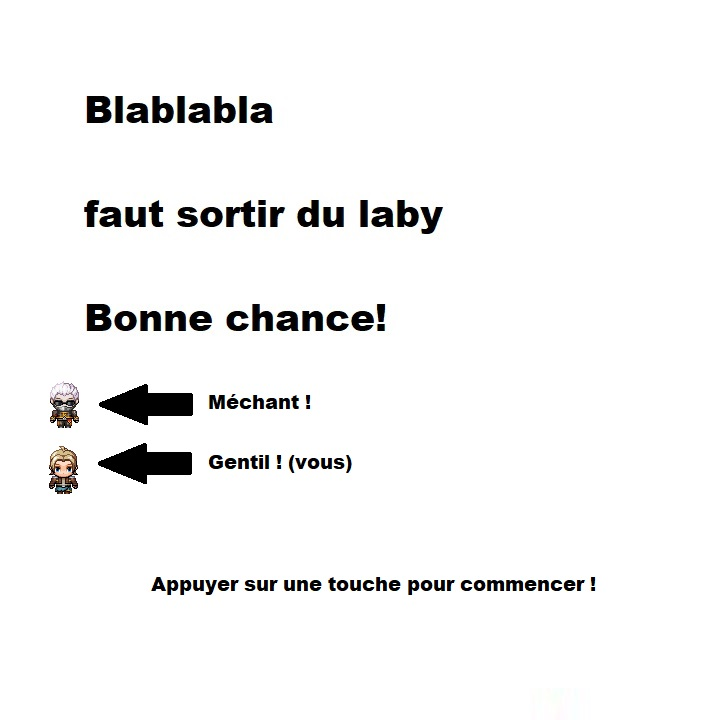
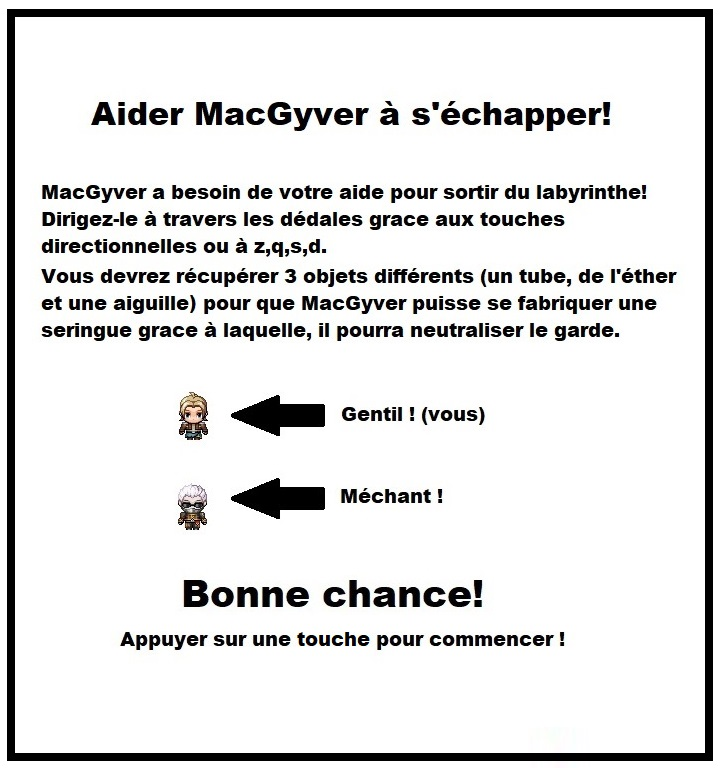
V3 MaJ ajout interface

diff --git a/LabyMcGyver.py b/LabyMcGyver.py
@@ -43,7 +43,7 @@ class Game:
         Laby.place_item("Aiguille")
         Laby.place_item("Tube")
         Laby.place_item("Ether")
-        Graphic.item()
+        Graphic.new_item()
         Graphic.show_case(Image.MCGYVER_DOWN,McGyver.POS)
         Graphic.show_case(Image.GARDIEN,Gardien.POS)
                 
@@ -65,7 +65,6 @@ class Game:
     def end():
         Game.END = True
         Game.PLAY = False
-        McGyver.craft_seringue()
         if McGyver.SERINGUE == True:
             Graphic.show_case(Image.WIN,Position(5,1))
         else:
@@ -84,7 +83,7 @@ class Graphic:
     
     @classmethod
     def open(cls):
-        cls.WINDOW = pygame.display.set_mode((Graphic.WIDTH_CASE*(Laby.LAT_MAX+1),Graphic.HEIGTH_CASE*(Laby.LON_MAX+1)))
+        cls.WINDOW = pygame.display.set_mode((Graphic.WIDTH_CASE*(Laby.LAT_MAX+1),Graphic.HEIGTH_CASE*(Laby.LON_MAX+2)))
     
     def create_laby():
         for i in range(Laby.LAT_MAX+1):
@@ -94,15 +93,19 @@ class Graphic:
                     Graphic.show_case(Image.WALL,wall.pos)
                 else:
                     Graphic.show_case(Image.SOL,wall.pos)
+        Graphic.show_case(Image.INTERFACE,Position(Laby.LON_MAX+1,0))
 
-    def item():
+    def new_item():
         for i in Laby.ITEMS:
-            if i.name == "Aiguille":
-                Graphic.show_case(Image.AIGUILLE,i.pos)
-            elif i.name == "Tube":
-                Graphic.show_case(Image.TUBE,i.pos)
-            elif i.name == "Ether":
-                Graphic.show_case(Image.ETHER,i.pos)
+            Graphic.item(i.name, i.pos)
+                
+    def item(name,pos):
+        if name == "Aiguille":
+            Graphic.show_case(Image.AIGUILLE,pos)
+        elif name == "Tube":
+            Graphic.show_case(Image.TUBE,pos)
+        elif name == "Ether":
+            Graphic.show_case(Image.ETHER,pos)
     
     def show_case(file,position):
         Graphic.WINDOW.blit(file, (position.lon*Graphic.WIDTH_CASE,position.lat*Graphic.HEIGTH_CASE))
@@ -168,22 +171,24 @@ class Image:
         cls.WIN = pygame.image.load("win.jpg").convert_alpha()
         cls.LOOSE = pygame.image.load("loose.jpg").convert_alpha()
         cls.RULE = pygame.image.load("rule.jpg").convert_alpha()
+        cls.INTERFACE = pygame.image.load("Interface.jpg").convert_alpha()
+        cls.SERINGUE = pygame.image.load("Seringue.jpg").convert_alpha()
            
 class McGyver:
+    
     
     @classmethod
     def new_game(cls):
         cls.POS = Position(0, 0)
         cls.SERINGUE = False
+        cls.LOOT = 0
     
     @classmethod
     def craft_seringue(cls):
         cls.SERINGUE = True
-        for i in Laby.ITEMS:
-            if not i.loot:
-                cls.SERINGUE = False
-                break
-
+        Graphic.show_case(Image.SERINGUE,Position(15,11))
+        
+        
     def move(event):
         if event.type == KEYDOWN:
             if event.key == K_DOWN or event.key == K_s:
@@ -219,6 +224,10 @@ class Item:
         for i in Laby.ITEMS:
             if i.pos == position and i.loot == False:
                 i.loot = True
+                Graphic.item(i.name,Position(15,1+(McGyver.LOOT*3)))
+                McGyver.LOOT += 1
+                if McGyver.LOOT == 3:
+                    McGyver.craft_seringue()
                 break
                         
 class Wall:
